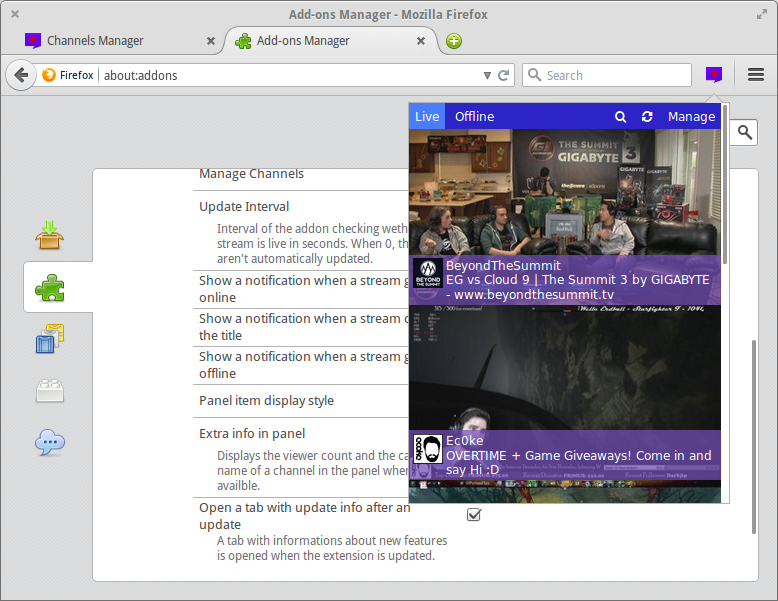
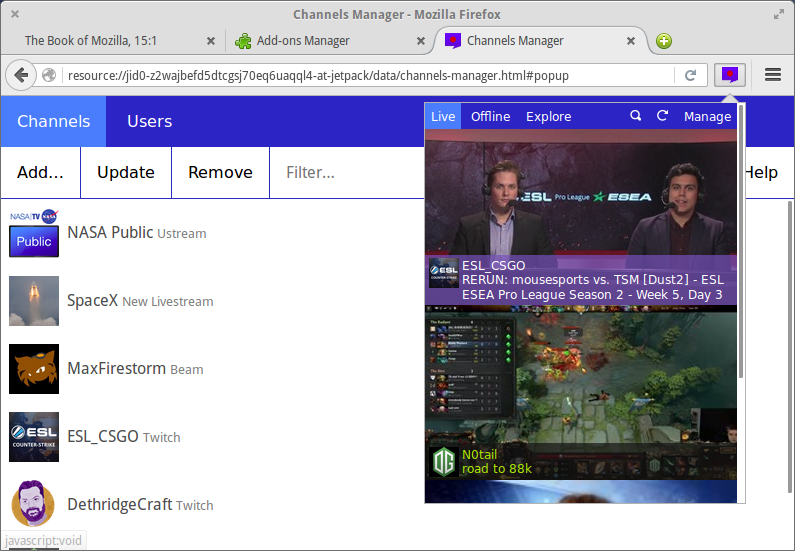
Update screenshots

diff --git a/index.html b/index.html
@@ -40,4 +40,12 @@ Sometimes you miss notifications, but thanks to the handy panel, accessed by a b
         <a href="img/screenshot7.png"><img src="img/screenshot7.png" alt="Filter in Panel Screenshot" class="thumbnail"></a>
         <figcaption>The list in the panel is filterable</figcaption>
     </figure>
+    <figure>
+        <a href="img/jtvn_explore_panel_final.png"><img src="img/jtvn_explore_panel_final.png" alt="Explore tab in panel screenshot" class="thumbnail"></a>
+        <figcaption>Explore new streams</figcaption>
+    </figure>
+    <figure>
+        <a href="img/jtvn_explore_search_final.png"><img src="img/jtvn_explore_search_final.png" alr="Global search in explore tab in panel screenshot" class="thumbnail"></a>
+        <figcaption>Search streams directly on platforms</figcaption>
+    </figure>
 </p>
